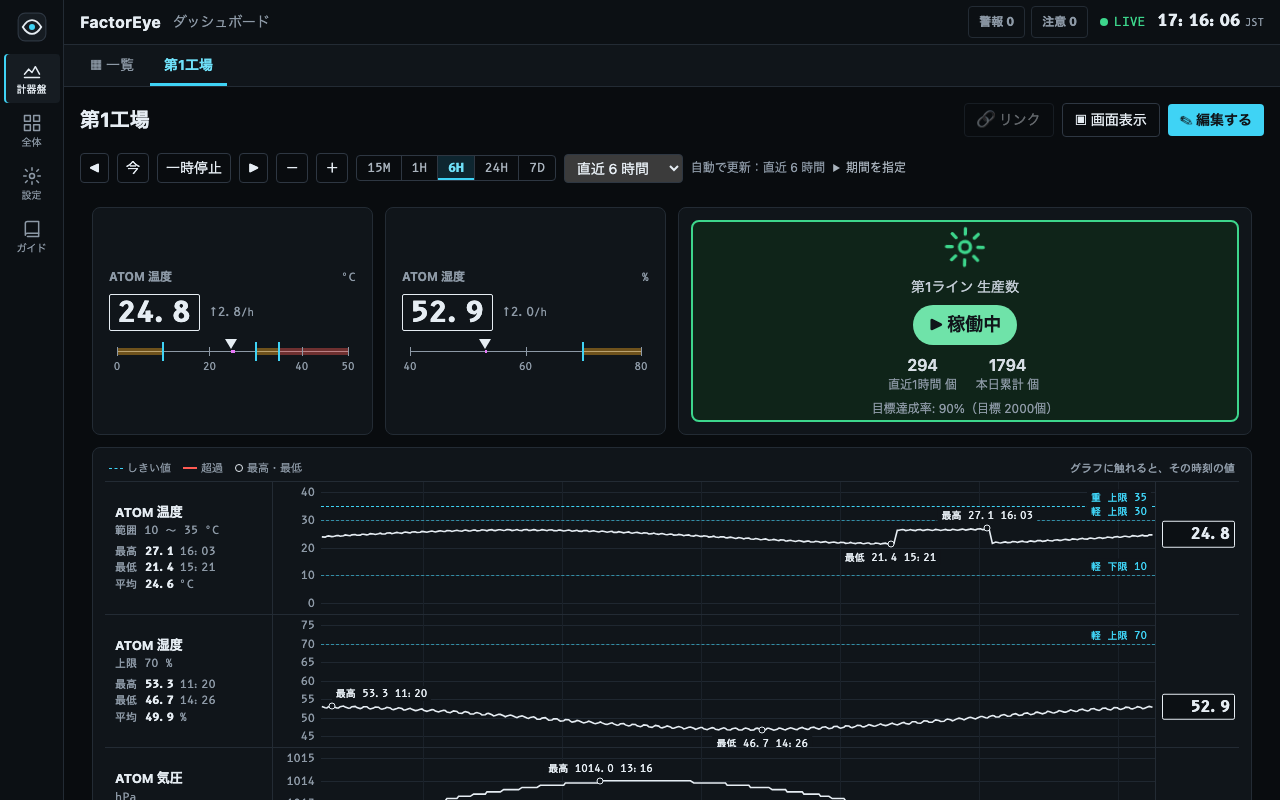
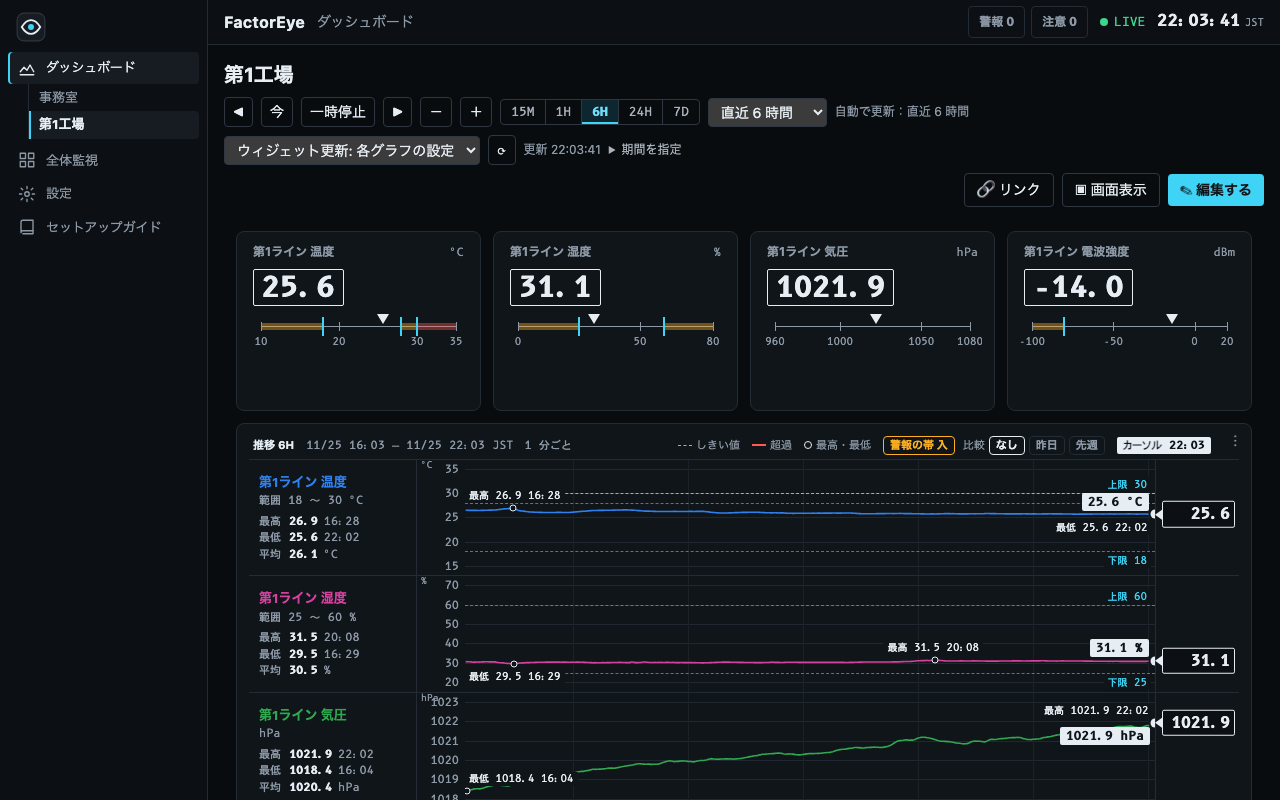
docs: v1.1.0 に向けて、README のスクリーンショットを今の画面（パソコン・スマホ）で撮り直し、変更履歴を作り、導入の版の書き方を直す（README.md: 概要とガイドの場所、CHANGELOG.md: 利用者向けの変更履歴、install/README.md・.env.template: 配布版の導入と版の指定、SECURITY.md: 対象の版、docs/images: 画面の画像。使っていない 4 枚を削除）
Claude-Session: https://claude.ai/code/session_017kpD9EWf6Bb2Rn7eAYtG9B

diff --git a/CHANGELOG.md b/CHANGELOG.md
@@ -1,0 +1,60 @@
+# 変更履歴
+
+利用者向けの主な変更です（細かい修正・試験・文書の変更は省きます）。版は [Semantic Versioning](https://semver.org/lang/ja/) に従います。
+配布版（`install/`）のイメージの版は、タグから `v` を除いた形です（例: タグ `v1.1.0` → `FACTOREYE_VERSION=1.1.0`）。
+
+## [1.1.0]（未リリース）
+
+v1.0.2 の後の、画面・グラフ・性能の改善をまとめた版です。DB の移行は、起動時に自動で行います（更新の前にバックアップを取ってください。`install.sh` と `./factoreye.sh update` は自動で取ります）。
+
+### 画面
+
+- 画面を「操作室風」に作り直しました。暗い背景（初期値）・等幅の数字・色の意味をそろえた計器盤です。設定 › 表示で明るい画面にも切り替えられ、「全員の初期値」にも保存できます
+- パソコンは左のメニューにダッシュボード名を並べ、スマホは上のタブで切り替えます（一覧の画面はなくしました）。ダッシュボードの作成は 設定 › ダッシュボード で行います
+- 全体監視の画面: 機器ごとの札を、警報・注意・正常・未受信の欄に並べます
+- セットアップガイドを、縦 4 段階の形に作り直しました（受信待ちの表・途中からの再開）
+- 設定 › センサー: 検索・絞り込み・直近 1 時間の小さな折れ線・機器ごとの見出し・右の詳細の欄
+- 新しいセンサーから最初のデータが届くと、画面の上に知らせ、そのままダッシュボードに追加できます
+- スマホ: 縦 1 列の並び、計器グラフの高さの調整、画面表示モード（壁掛け用のキオスク。常に暗い画面）
+- 単位が「-」のセンサーに、名前から単位を補います。単位の選択肢に hPa・dBm を足しました
+
+### ウィジェット
+
+- 計器グラフ（`TrendStack`）: 1 センサー 1 行で、目盛り・しきい値・最高・最低・平均・今の値を読める形。行ごとの線の色と、縦軸の最小・最大を設定できます
+- 計器（`TapeGauge`）、機器の系統図（`DeviceTree`）、配置図（`FloorPlan`）、状態の帯（`StateTimeline`。稼働・警報・停止・受信なしと稼働率）
+- グラフの ⋮ メニュー: 全画面・表で見る・CSV の保存・この期間のリンクのコピー
+- 警報の帯（しきい値を超えた区間）、昨日・先週の重ね表示、複数センサー比較の凡例の表
+
+### グラフの操作
+
+- カーソルを全グラフで連動させます（時刻の札・「今に戻す」）
+- 計器グラフ: ドラッグで範囲を選んで拡大、ダブルクリックで縮小、Ctrl（⌘）＋ホイール、時刻の軸のドラッグで左右に移動
+- 範囲の変更・ダッシュボードの切り替え・画面の移動をブラウザの履歴に積み、「戻る」で前の範囲・ダッシュボードに帰れます
+- ダッシュボード全体の更新間隔を選べます（各グラフの設定・Off・10 秒〜5 分）。最終更新時刻と手動の更新ボタン
+- データが無い区間では、ふつうのグラフの線も切ります
+- グラフ 1 つ、またはダッシュボード全体を、スマホ向けの 1 画面で開くリンク（`/?dashboard=…&range=…m`）
+
+### 性能・運用
+
+- 古い 1 秒ごとの値を 1 分ごとにまとめる設定（`READINGS_ROLLUP_DAYS`）。長い期間のグラフが速くなり、DB の増え方が約 60 分の 1 になります
+- 直近の分も 1 分ごとの集計を持ち、7 日表示などのグラフ・集計を速くしました（`READINGS_ROLLUP_DAYS` が 1 以上のとき）
+- 複数のグラフの取得を 1 回の API（`POST /api/sensors/readings/downsampled`）にまとめ、同時に開いたときの待ち時間を減らしました
+- 長い範囲のグラフを同時に開くと、DB の接続が詰まって止まることがある不具合を直しました。接続の数は `DB_POOL_SIZE`・`DB_MAX_OVERFLOW` で変えられます（既定 10＋10）
+- 配布版の nginx: `/api` のリダイレクトを相対にし、内部のポートが外に出ないようにしました
+- グラフの縦軸が自動のとき、幅の狭い値（気圧など）の線が消えて見えることがある不具合を直しました
+
+### SaaS 版（`AUTH_MODE=multi_tenant`）
+
+- 登録・ログインを、パスワードからパスキー（WebAuthn）に変えました。メールのログインリンク・キオスク用の永久ログイン・管理者のリセットがあります。`/api/auth/register`・`/api/auth/login` は廃止しました
+- メールの 1 日の送信数の上限（`EMAIL_DAILY_LIMIT`）と、運用者への通知（`OPS_DISCORD_WEBHOOK_URL`）
+
+### 機器・その他
+
+- `clients/FactorEyeNode/`: 書き込むだけで使える M5Stack のスケッチを整理しました（設定はスマホの画面で行う）
+- `clients/arduino-m5stack/`: `setSensorInfo` で名前と単位を付けられる数を 20 にしました
+- `examples/aws-dr/`: AWS に災害時の控えを置く参考コード
+- 開発者向け: コミット前と CI で、秘密の値の混入を検査します（gitleaks）
+
+## [1.0.2] - 2026-11-05
+
+- 最初の公開版。1 行の導入（`install/install.sh`）と、GHCR のイメージ（amd64 / arm64）

diff --git a/install/README.md b/install/README.md
@@ -6,7 +6,7 @@
 curl -fsSL https://raw.githubusercontent.com/hide23link/factoreye/main/install/install.sh | sudo bash
 ```
 
-もう一度実行すると、データと設定を残したまま更新します（更新前に自動でバックアップを取ります）。
+公開済みの最新の版（`latest`。v1.1.0 以降）が入ります。もう一度実行するか `./factoreye.sh update` で、データと設定を残したまま最新の版に更新します（更新前に自動でバックアップを取ります）。版を固定したいときは、`config/.env` の `FACTOREYE_VERSION` を `1.1.0` のように書きます（先頭に `v` を付けない）。版ごとの変更は [`CHANGELOG.md`](../CHANGELOG.md) にあります。
 
 | やりたいこと | 方法 |
 |---|---|

diff --git a/SECURITY.md b/SECURITY.md
@@ -2,7 +2,7 @@
 
 ## 対象
 
-`main` の最新版のみをサポートします。
+最新のリリース（[リリース一覧](https://github.com/hide23link/factoreye/releases)）と `main` の最新版をサポートします。
 
 ## 脆弱性の報告
 
